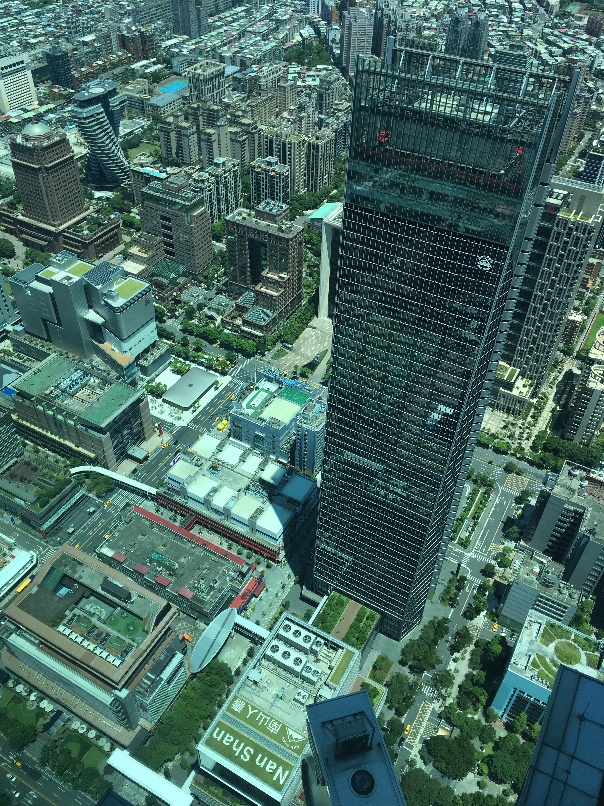
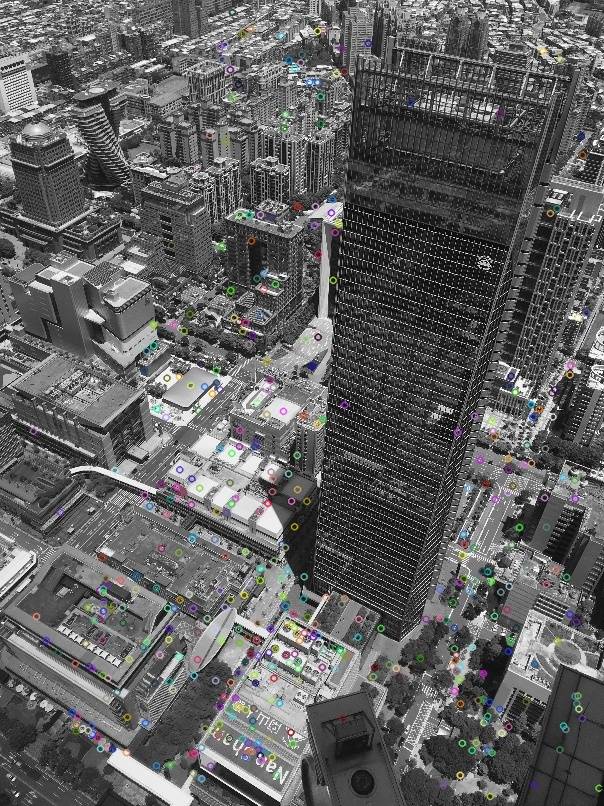
match

diff --git a/main.py b/main.py
@@ -4,6 +4,7 @@ import cv2
 import numpy as np
 from matplotlib import pyplot as plt
 import sys
+import random
 
 class GUI(QtWidgets.QMainWindow, Ui_MainWindow):
     def __init__(self,parent=None):
@@ -13,9 +14,14 @@ class GUI(QtWidgets.QMainWindow, Ui_MainWindow):
         # push button
         self.pushButton.clicked.connect(self.disparity)
         self.pushButton_2.clicked.connect(self.template_match)
-        #self.pushButton_3.clicked.connect()
-        #self.pushButton_4.clicked.connect()
-
+        self.pushButton_3.clicked.connect(self.keypoints)
+        self.pushButton_4.clicked.connect(self.match_keypoints)
+        self.kp1 = []
+        self.kp2 = []
+        self.des1 = None
+        self.des2 = None
+        self.good_match = []
+    
     def disparity(self):
         imgL = cv2.imread('imL.png',0)
         imgR = cv2.imread('imR.png',0)
@@ -27,21 +33,73 @@ class GUI(QtWidgets.QMainWindow, Ui_MainWindow):
 
     def template_match(self):
         img = cv2.imread('ncc_img.jpg')
+        img_gray = cv2.cvtColor(img, cv2.COLOR_BGR2GRAY)
         template = cv2.imread('ncc_template.jpg')
         w = template.shape[1]
-        h = template.shape[0]
+        h = template.shape[0] #cv2.TM_CCORR_NORMED
         res = cv2.matchTemplate(img,template,cv2.TM_CCOEFF_NORMED)
-        min_val, max_val, min_loc, max_loc = cv2.minMaxLoc(res)
-        top_left = min_loc
-        bottom_right = (top_left[0] + w, top_left[1] + h)
-        cv2.rectangle(img,top_left, bottom_right, 255, 2)
+        threshold = 0.98
+        loc = np.where( res >= threshold)
+        #min_val, max_val, min_loc, max_loc = cv2.minMaxLoc(res)
+        #top_left = max_loc
+        #bottom_right = (top_left[0] + w, top_left[1] + h)
+        #cv2.rectangle(img,top_left, bottom_right,(0,0,0), 2)
+        for pt in zip(*loc[::-1]):
+            cv2.rectangle(img, pt, (pt[0] + w, pt[1] + h), (0,0,255), 2)
+        
         plt.subplot(121),plt.imshow(res,cmap = 'gray')
         plt.title('Matching Result'), plt.xticks([]), plt.yticks([])
-        plt.subplot(122),plt.imshow(img)
+        plt.subplot(122),plt.imshow(cv2.cvtColor(img, cv2.COLOR_BGR2RGB))
         plt.title('Detected Point'), plt.xticks([]), plt.yticks([])
-        #plt.suptitle('')
-    
+        plt.suptitle('Template Match')
         plt.show()
+
+    def keypoints(self):
+        img_1 = cv2.imread('Aerial1_origin.jpg', cv2.IMREAD_GRAYSCALE)
+        img_2 = cv2.imread('Aerial2_origin.jpg', cv2.IMREAD_GRAYSCALE)
+        sift = cv2.xfeatures2d.SIFT_create(edgeThreshold = 10,contrastThreshold = 0.004)
+
+        kp1, des1 = sift.detectAndCompute(img_1, None)
+        kp2, des2 = sift.detectAndCompute(img_2, None)
+
+        bf = cv2.BFMatcher()
+        matches = bf.knnMatch(des1, des2, k=2)
+        matches = sorted(matches, key = lambda x:x[0].distance)
+        
+        for i in range(0,500):
+            self.kp1.append(kp1[matches[i][0].queryIdx])
+            self.kp2.append(kp2[matches[i][0].trainIdx])
+        
+        self.good_match = matches[:500]
+        img_1=cv2.drawKeypoints(img_1,self.kp1,img_1)
+        img_2=cv2.drawKeypoints(img_2,self.kp2,img_2)
+
+        cv2.imwrite('Aerial1.jpg', img_1)
+        cv2.imwrite('Aerial2.jpg', img_2)
+
+        plt.subplot(121),plt.imshow(cv2.cvtColor(img_1, cv2.COLOR_BGR2RGB))
+        plt.title('Aerial1.jpg'), plt.xticks([]), plt.yticks([])
+        plt.subplot(122),plt.imshow(cv2.cvtColor(img_2, cv2.COLOR_BGR2RGB))
+        plt.title('Aerial2.jpg'), plt.xticks([]), plt.yticks([])
+        plt.suptitle('SIFT')
+        plt.show()
+
+        #points2f = cv2.KeyPoint_convert(self.kp1)
+        #print(points2f)
+        
+        
+
+    def match_keypoints(self):
+        img_1 = cv2.imread('Aerial1_origin.jpg', cv2.IMREAD_GRAYSCALE)
+        img_2 = cv2.imread('Aerial2_origin.jpg', cv2.IMREAD_GRAYSCALE)
+        #print(self.kp1)
+        #print(self.kp2)
+        #print(self.good_match)
+        img_out = cv2.drawMatchesKnn(img_1,self.kp1,img_2,self.kp2,self.good_match,None,flags=2)
+        plt.imshow(img_out)
+        plt.show()
+
+        
 
 
 if __name__ == '__main__':  
